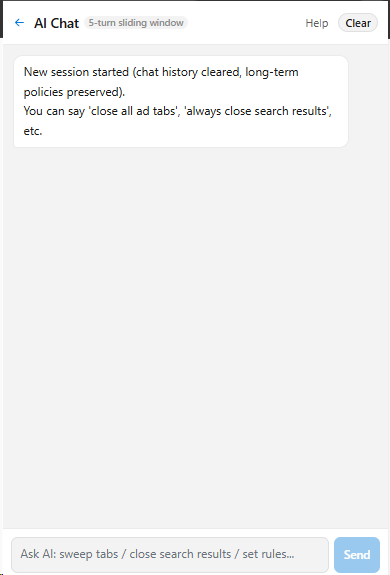
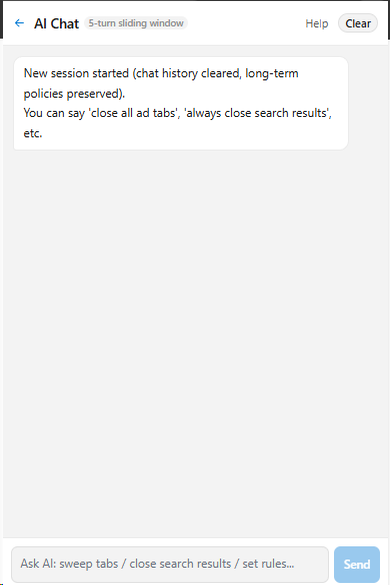
docs: normalize 3 screenshot dimensions to 390x585 and balance table column widths

diff --git a/README.md b/README.md
@@ -42,10 +42,10 @@ Worried about LLM token costs? With high-efficiency models like **DeepSeek V4.1 
 
 ## 📸 Screenshots
 
-| Main View & Multi-Window Groups | AI Cleanup & Grouping Review | AI Chat & Rule Customization |
+| Main View & Window Groups | AI Cleanup & Group Review | AI Chat & Custom Policies |
 | :---: | :---: | :---: |
-| <img src="docs/screenshots/main-groups.png" width="260" alt="Main View" /> | <img src="docs/screenshots/cleanup-review.png" width="260" alt="Cleanup Review" /> | <img src="docs/screenshots/agent-chat.png" width="260" alt="AI Chat" /> |
-| Clear overview of window groups & tabs | Explicit close reasons & group suggestions with checkbox confirmation | Conversational tab control & natural language policy updates |
+| <img src="docs/screenshots/main-groups.png" width="250" alt="Main View" /> | <img src="docs/screenshots/cleanup-review.png" width="250" alt="Cleanup Review" /> | <img src="docs/screenshots/agent-chat.png" width="250" alt="AI Chat" /> |
+| Multi-window tab & group overview | Review close reasons & group plan | Chat with AI & update rules live |
 
 ---
 

diff --git a/README.zh-CN.md b/README.zh-CN.md
@@ -42,10 +42,10 @@
 
 ## 📸 界面预览
 
-| 主界面与多窗口分组 | AI 清理与分组审核流 | AI 对话与规则定制 |
+| 主界面与多窗口分组 | AI 清理与分组审核 | AI 对话与规则定制 |
 | :---: | :---: | :---: |
-| <img src="docs/screenshots/main-groups.png" width="260" alt="Main View" /> | <img src="docs/screenshots/cleanup-review.png" width="260" alt="Cleanup Review" /> | <img src="docs/screenshots/agent-chat.png" width="260" alt="AI Chat" /> |
-| 清晰展示当前窗口分组与标签概览 | 列出每条关闭理由与分组建议，勾选确认后执行 | 对话式操作标签，一句话更新长期整理规则 |
+| <img src="docs/screenshots/main-groups.png" width="250" alt="Main View" /> | <img src="docs/screenshots/cleanup-review.png" width="250" alt="Cleanup Review" /> | <img src="docs/screenshots/agent-chat.png" width="250" alt="AI Chat" /> |
+| 清晰展示当前窗口分组与标签概览 | 列出关闭理由与分组，勾选后执行 | 对话式操作标签，一句话更新规则 |
 
 ---
 
